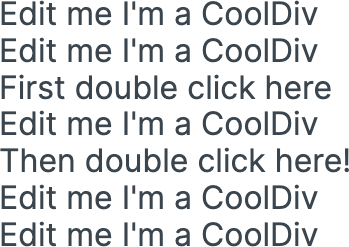
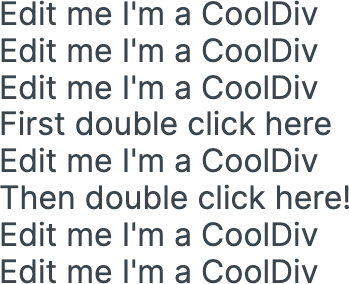
[ecu] Delete component App in App

diff --git a/app/src/App.tsx b/app/src/App.tsx
@@ -39,8 +39,7 @@ type AppPropsType = Record<string, never>;
 function App(props: AppPropsType) {
   return (
     <>
-      <CoolDiv />
-      <CoolDiv />
+      
       <CoolDiv />
       <Text data-ecu="eylwB5S7sE:0">First double click here</Text>
       <CoolDiv />
